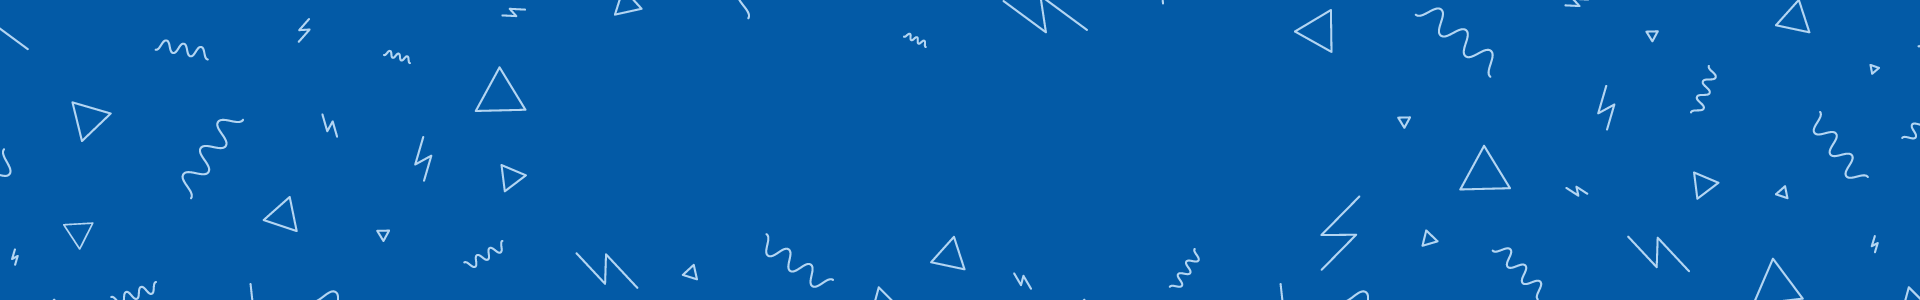
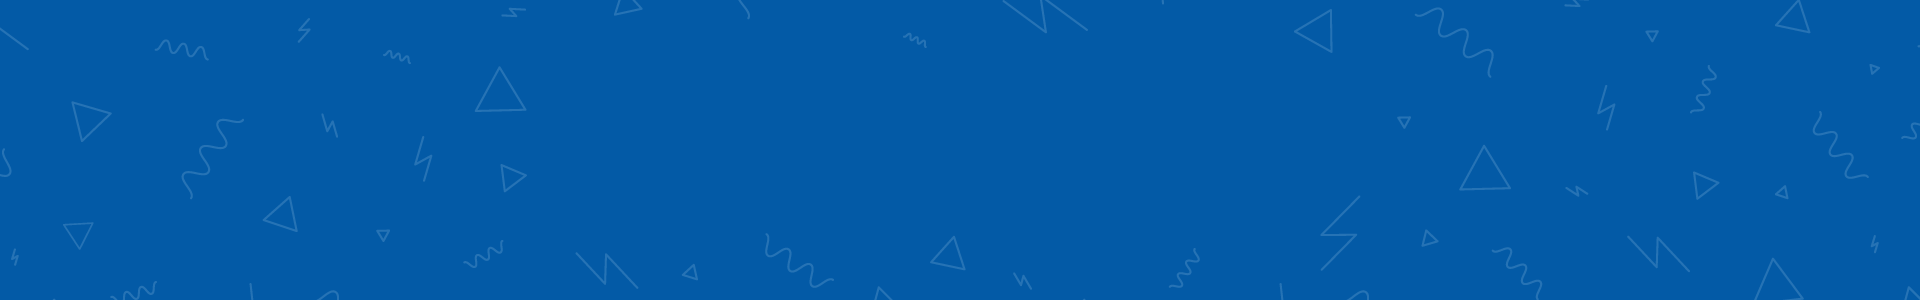
Adjusted Image
Updated the background image with an opacity on the doodles.

diff --git a/index.html b/index.html
@@ -26,7 +26,7 @@
         <section class="hero">
             <div class="content">
                 <div class="contentTitle">
-                    <h1>Hello, I&#39m Jay Tavitas</h1>
+                    <h1>Hello, I&#39m Jay Tavitas.</h1>
                 </div>
                 <div class="contentCopy">
                     <p>I&#39m a UX/UI designer with 18 years experience as an art director and graphic designer in marketing and advertising for retail, finance, healthcare and nonprofits.</p>
